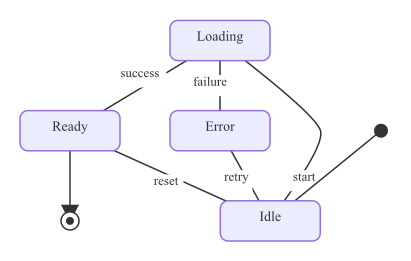
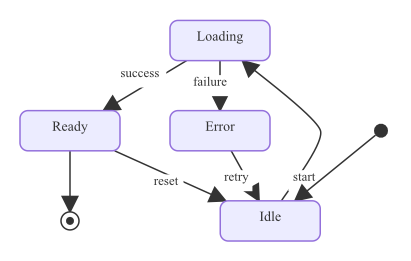
state: clip edge endpoints so arrowheads land on the node boundary (#79)
* state: clip edge endpoints so arrowheads land on the node boundary

Edges previously ended at the layout-emitted point, which is the
node's center. With marker-end attached, the arrowhead glyph then
rendered inside the destination — invisible behind the rounded rect or
end ring. Same bug PR #72 fixed for flowchart.

clipNodeEdge picks the right boundary per node kind: rect clip
(via svgutil.ClipToRectEdge) for regular states, and a new
clipCircleEdge for pseudo nodes so the arrow tucks against the
visible glyph (startDotR / endRingR), not the larger 20×20 layout
box reserved around it.

Examples regenerated.

* svgutil: extract ClipToCircleEdge as the circle analogue of ClipToRectEdge

The state renderer's local clipCircleEdge is pure trig with no
diagram-specific state and pairs naturally with the existing
ClipToRectEdge primitive. Promoting it to svgutil makes the symmetry
discoverable for future renderers (flowchart's NodeShapeCircle is the
obvious next caller — it currently rect-clips circular nodes).

---------

diff --git a/pkg/renderer/state/renderer.go b/pkg/renderer/state/renderer.go
@@ -257,6 +257,21 @@ func renderEdges(d *diagram.StateDiagram, l *layout.Result, pad, fontSize float6
 		for i, p := range el.Points {
 			pts[i] = layout.Point{X: p.X + pad, Y: p.Y + pad}
 		}
+		// Clip endpoints to source/target node boundaries so the
+		// marker-end arrowhead lands on the edge of the destination
+		// shape, not buried inside it. Cache direction references
+		// before mutating either endpoint — pts[1]/pts[len-2] alias
+		// for 2-point edges.
+		srcDir := pts[1]
+		dstDir := pts[len(pts)-2]
+		if src, ok := l.Nodes[eid.From]; ok {
+			x, y := clipNodeEdge(eid.From, src, pad, srcDir)
+			pts[0] = layout.Point{X: x, Y: y}
+		}
+		if dst, ok := l.Nodes[eid.To]; ok {
+			x, y := clipNodeEdge(eid.To, dst, pad, dstDir)
+			pts[len(pts)-1] = layout.Point{X: x, Y: y}
+		}
 
 		style := fmt.Sprintf("stroke:%s;stroke-width:1.5;fill:none", th.EdgeStroke)
 		if len(pts) == 2 {
@@ -329,6 +344,23 @@ func labelPosition(pts []layout.Point, base layout.Point) layout.Point {
 
 func isPseudoNode(id string) bool {
 	return isStartNode(id) || isEndNode(id)
+}
+
+// clipNodeEdge picks the right boundary clip for a state node. Regular
+// states are rounded rects so a rect clip suffices; pseudo (start/end)
+// nodes are circles, and clipping to their visible radius keeps the
+// arrowhead tucked against the glyph instead of floating in the
+// 20×20 layout box reserved around it.
+func clipNodeEdge(id string, n layout.NodeLayout, pad float64, dir layout.Point) (float64, float64) {
+	cx := n.X + pad
+	cy := n.Y + pad
+	if isStartNode(id) {
+		return svgutil.ClipToCircleEdge(cx, cy, startDotR, dir.X, dir.Y)
+	}
+	if isEndNode(id) {
+		return svgutil.ClipToCircleEdge(cx, cy, endRingR, dir.X, dir.Y)
+	}
+	return svgutil.ClipToRectEdge(cx, cy, n.Width, n.Height, dir.X, dir.Y)
 }
 
 func isStartNode(id string) bool {

diff --git a/pkg/renderer/svgutil/svgutil_test.go b/pkg/renderer/svgutil/svgutil_test.go
@@ -33,6 +33,29 @@ func TestClipToRectEdge(t *testing.T) {
 	}
 }
 
+func TestClipToCircleEdge(t *testing.T) {
+	cases := []struct {
+		name              string
+		cx, cy, r, ox, oy float64
+		wantX, wantY      float64
+	}{
+		{"east", 0, 0, 5, 100, 0, 5, 0},
+		{"west", 0, 0, 5, -100, 0, -5, 0},
+		{"north", 0, 0, 5, 0, -100, 0, -5},
+		{"south", 0, 0, 5, 0, 100, 0, 5},
+		{"diagonal-NE", 0, 0, 10, 30, 40, 6, 8},
+		{"offset-center", 3, 4, 5, 3, 4, 3, 4},
+	}
+	for _, tc := range cases {
+		t.Run(tc.name, func(t *testing.T) {
+			x, y := ClipToCircleEdge(tc.cx, tc.cy, tc.r, tc.ox, tc.oy)
+			if math.Abs(x-tc.wantX) > 1e-9 || math.Abs(y-tc.wantY) > 1e-9 {
+				t.Errorf("ClipToCircleEdge=(%v,%v) want=(%v,%v)", x, y, tc.wantX, tc.wantY)
+			}
+		})
+	}
+}
+
 func TestNegCoord(t *testing.T) {
 	cases := map[float64]string{0: "0.00", 9: "-9.00", -4: "4.00", 1.234: "-1.23"}
 	for in, want := range cases {

diff --git a/pkg/renderer/svgutil/svgutil.go b/pkg/renderer/svgutil/svgutil.go
@@ -93,6 +93,18 @@ func ClipToRectEdge(cx, cy, w, h, ox, oy float64) (x, y float64) {
 	return cx + dx*t, cy + dy*t
 }
 
+// ClipToCircleEdge returns the point on the circle (center (cx, cy),
+// radius r) along the ray toward (ox, oy). If (ox, oy) coincides
+// with the center the center is returned unchanged.
+func ClipToCircleEdge(cx, cy, r, ox, oy float64) (x, y float64) {
+	dx, dy := ox-cx, oy-cy
+	d := math.Sqrt(dx*dx + dy*dy)
+	if d == 0 {
+		return cx, cy
+	}
+	return cx + dx/d*r, cy + dy/d*r
+}
+
 // NegCoord formats -v for an SVG transform attribute, avoiding the
 // "-0.00" output that a plain %.2f of -0 produces (ugly in
 // golden-file diffs).
